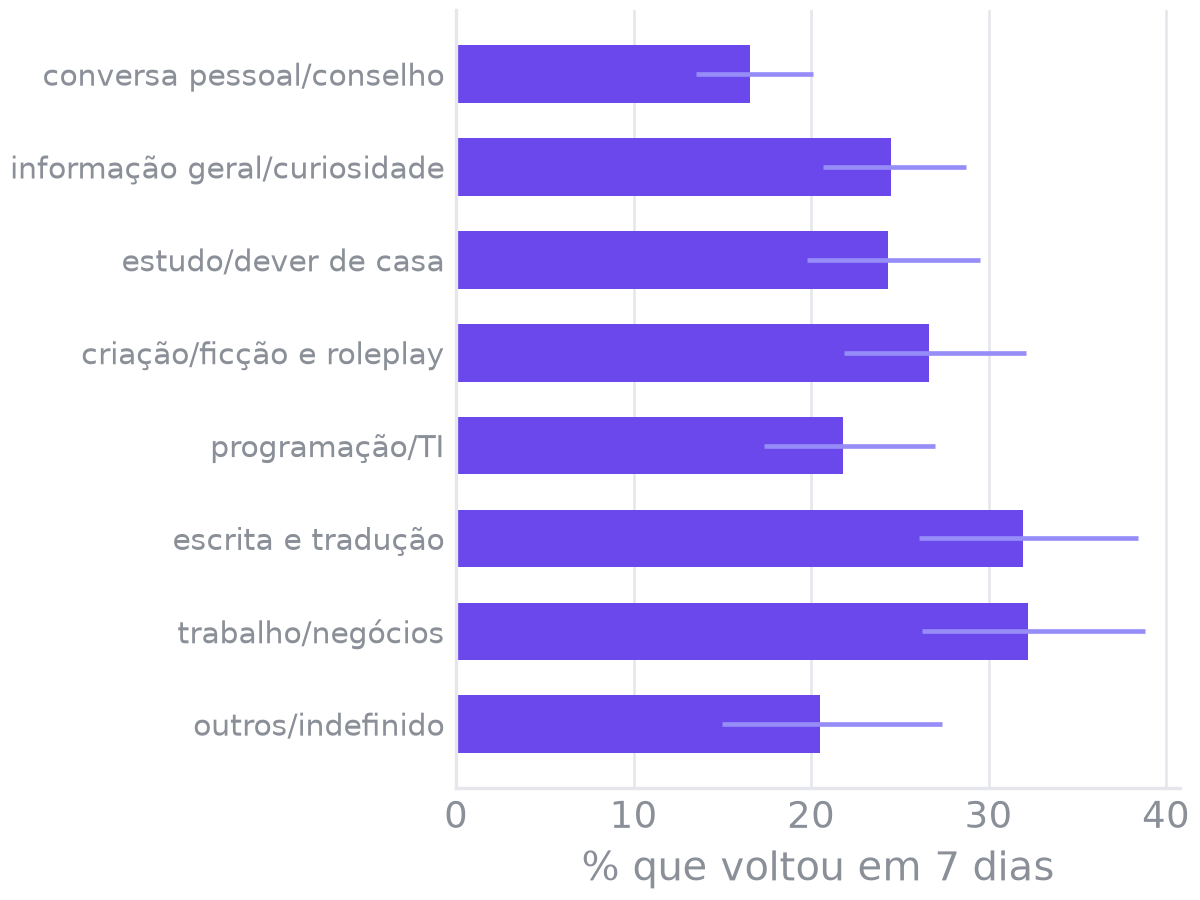
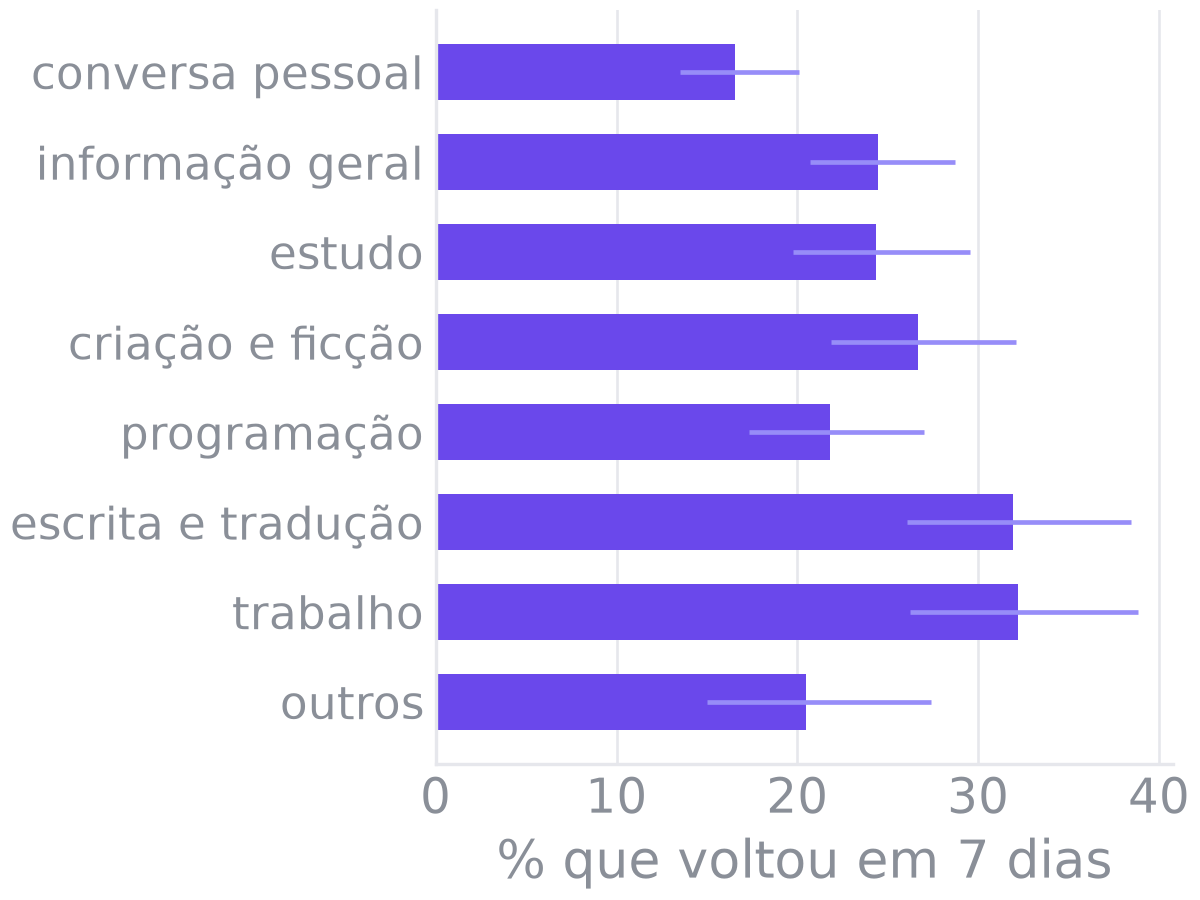
feat(m6): figuras com letra maior e nomes de tema curtos na exibição [T-605]

Changed region(s): [[0.0, 0.2489, 1.0, 0.9956], [0.0, 0.0311, 0.8017, 0.2178]]

diff --git a/analise/eda.py b/analise/eda.py
@@ -38,7 +38,12 @@ COR_TINTA = "#121212"
 COR_GRADE = "#e6e7ec"
 COR_FAIXAS = ["#f1eefe", "#f6f7f9", "#f1eefe", "#f6f7f9"]  # eras de modelo: tons bem claros, alternados
 TAMANHO = (5, 3.75)  # 4:3; impressa com ~55 mm de largura no PDF, por isso a letra é grande
-FONTE = 12
+FONTE = 15.5
+
+NOMES_TEMA = {  # só na exibição da figura; o nome completo continua nas tabelas e em conclusoes.md
+    "conversa pessoal/conselho": "conversa pessoal", "informação geral/curiosidade": "informação geral", "estudo/dever de casa": "estudo",
+    "criação/ficção e roleplay": "criação e ficção", "programação/TI": "programação", "trabalho/negócios": "trabalho", "outros/indefinido": "outros",
+}
 
 NOMES_IDIOMA = {
     "Portuguese": "Português", "English": "Inglês", "Spanish": "Espanhol", "French": "Francês", "German": "Alemão",
@@ -56,7 +61,7 @@ def _estilo() -> None:
         "axes.labelcolor": COR_CINZA, "axes.labelsize": FONTE, "axes.titlesize": FONTE, "axes.grid": True, "axes.grid.axis": "y",
         "axes.axisbelow": True, "grid.color": COR_GRADE, "grid.linewidth": 0.8,
         "xtick.color": COR_CINZA, "ytick.color": COR_CINZA, "xtick.labelsize": FONTE - 1, "ytick.labelsize": FONTE - 1,
-        "xtick.major.size": 0, "ytick.major.size": 0, "legend.fontsize": FONTE - 2, "legend.frameon": False,
+        "xtick.major.size": 0, "ytick.major.size": 0, "legend.fontsize": 12.5, "legend.frameon": False,
     })
 
 
@@ -174,11 +179,11 @@ def fig_retorno_semanal(conn) -> tuple[str, str]:
                 elinewidth=1.2, alpha=0.9, label="semana")
     ax.errorbar([p for p, o in zip(per, ok) if not o], taxa[~ok] * 100, yerr=[(taxa - inf)[~ok] * 100, (sup - taxa)[~ok] * 100],
                 fmt="o", ms=4, color=COR_CINZA, ecolor=COR_GRADE, elinewidth=1.2, label="pouca gente")
-    ax.plot(per, np.array(mm4) * 100, color=COR_DESTAQUE, lw=2.4, label="média de 4 semanas")
+    ax.plot(per, np.array(mm4) * 100, color=COR_DESTAQUE, lw=2.4, label="média 4 sem.")
     ax.set_ylabel("% que voltou em 7 dias")
     ax.xaxis.set_major_locator(mdates.MonthLocator(interval=6))
     ax.xaxis.set_major_formatter(mdates.DateFormatter("%m/%y"))
-    ax.legend(loc="upper center", bbox_to_anchor=(0.5, 1.16), ncol=3, columnspacing=0.8, handletextpad=0.3)
+    fig.legend(*ax.get_legend_handles_labels(), loc="outside upper center", ncol=3, fontsize=11.5, columnspacing=0.7, handletextpad=0.2, handlelength=1.2)
     nome = _salvar(fig, "03_retorno_semanal.png")
     larg = (sup - inf)[ok] * 100
     mm_validas = [m for m in mm4 if not np.isnan(m)]
@@ -222,7 +227,7 @@ def fig_tema(conn) -> tuple[str, str] | None:
     ax.grid(True, axis="x")
     ax.barh(y, taxa * 100, xerr=[[(t - i[0]) * 100 for t, i in zip(taxa, ics)], [(i[1] - t) * 100 for t, i in zip(taxa, ics)]],
             color=COR, ecolor=COR_CLARA, height=0.62, error_kw={"elinewidth": 1.4})
-    ax.set_yticks(y, [r for r in rot], fontsize=FONTE - 3)
+    ax.set_yticks(y, [NOMES_TEMA.get(r, r) for r in rot], fontsize=FONTE - 2)
     ax.invert_yaxis()
     ax.set_xlabel("% que voltou em 7 dias")
     nome = _salvar(fig, "05_retorno_por_tema.png")
@@ -247,12 +252,12 @@ def fig_idioma(conn) -> tuple[str, str]:
     a1.grid(True, axis="x")
     a1.barh([_nome_idioma(c[0]) for c in cont][::-1], [c[1] / total * 100 for c in cont][::-1], color=COR, height=0.65)
     a1.set_xlabel("% das conversas, por idioma")
-    a1.tick_params(axis="y", labelsize=FONTE - 2)
+    a1.tick_params(axis="y", labelsize=FONTE - 3)
     taxas = [f[2] / f[1] for f in faixas]
     a2.bar([f[0] for f in faixas], [t * 100 for t in taxas], color=[COR_DESTAQUE if i == 0 else COR for i in range(len(faixas))], width=0.65)
     a2.set_xlabel("caracteres da 1ª pergunta")
-    a2.set_ylabel("% de idioma trocado")
-    a2.tick_params(axis="x", labelsize=FONTE - 3)
+    a2.set_ylabel("% trocado")
+    a2.tick_params(axis="x", labelsize=FONTE - 4.5)
     nome = _salvar(fig, "06_idioma.png")
     resto = faixas[1:]
     taxa_resto = sum(f[2] for f in resto) / sum(f[1] for f in resto)
